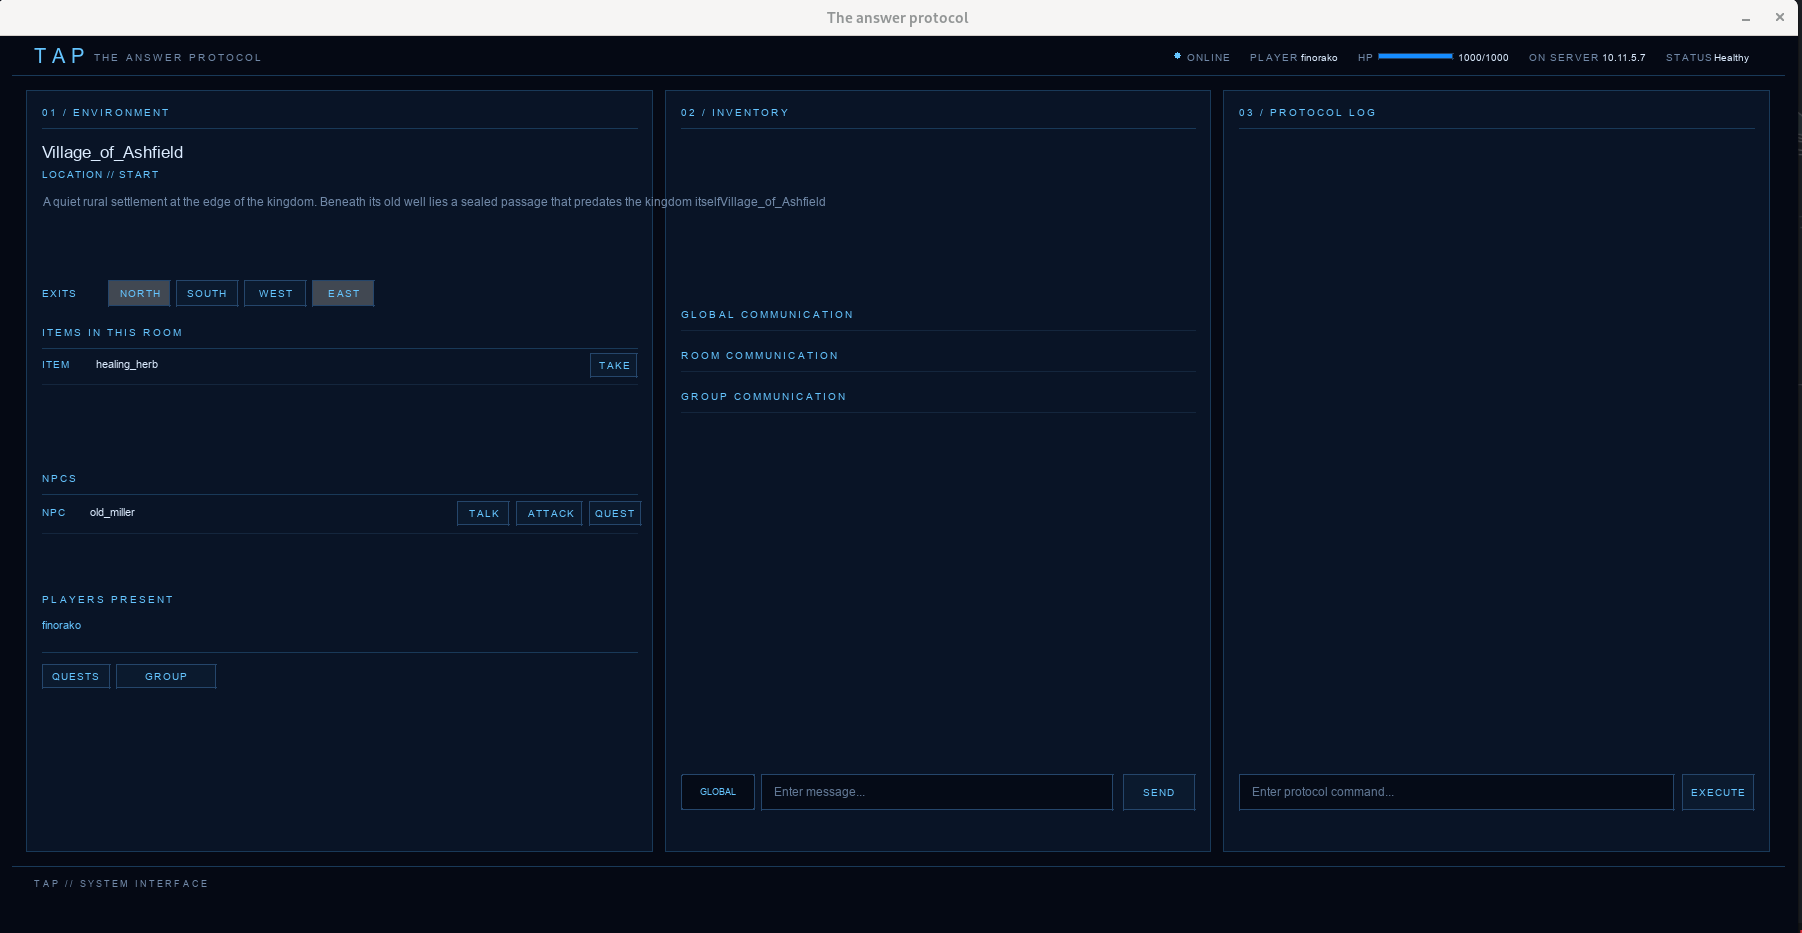
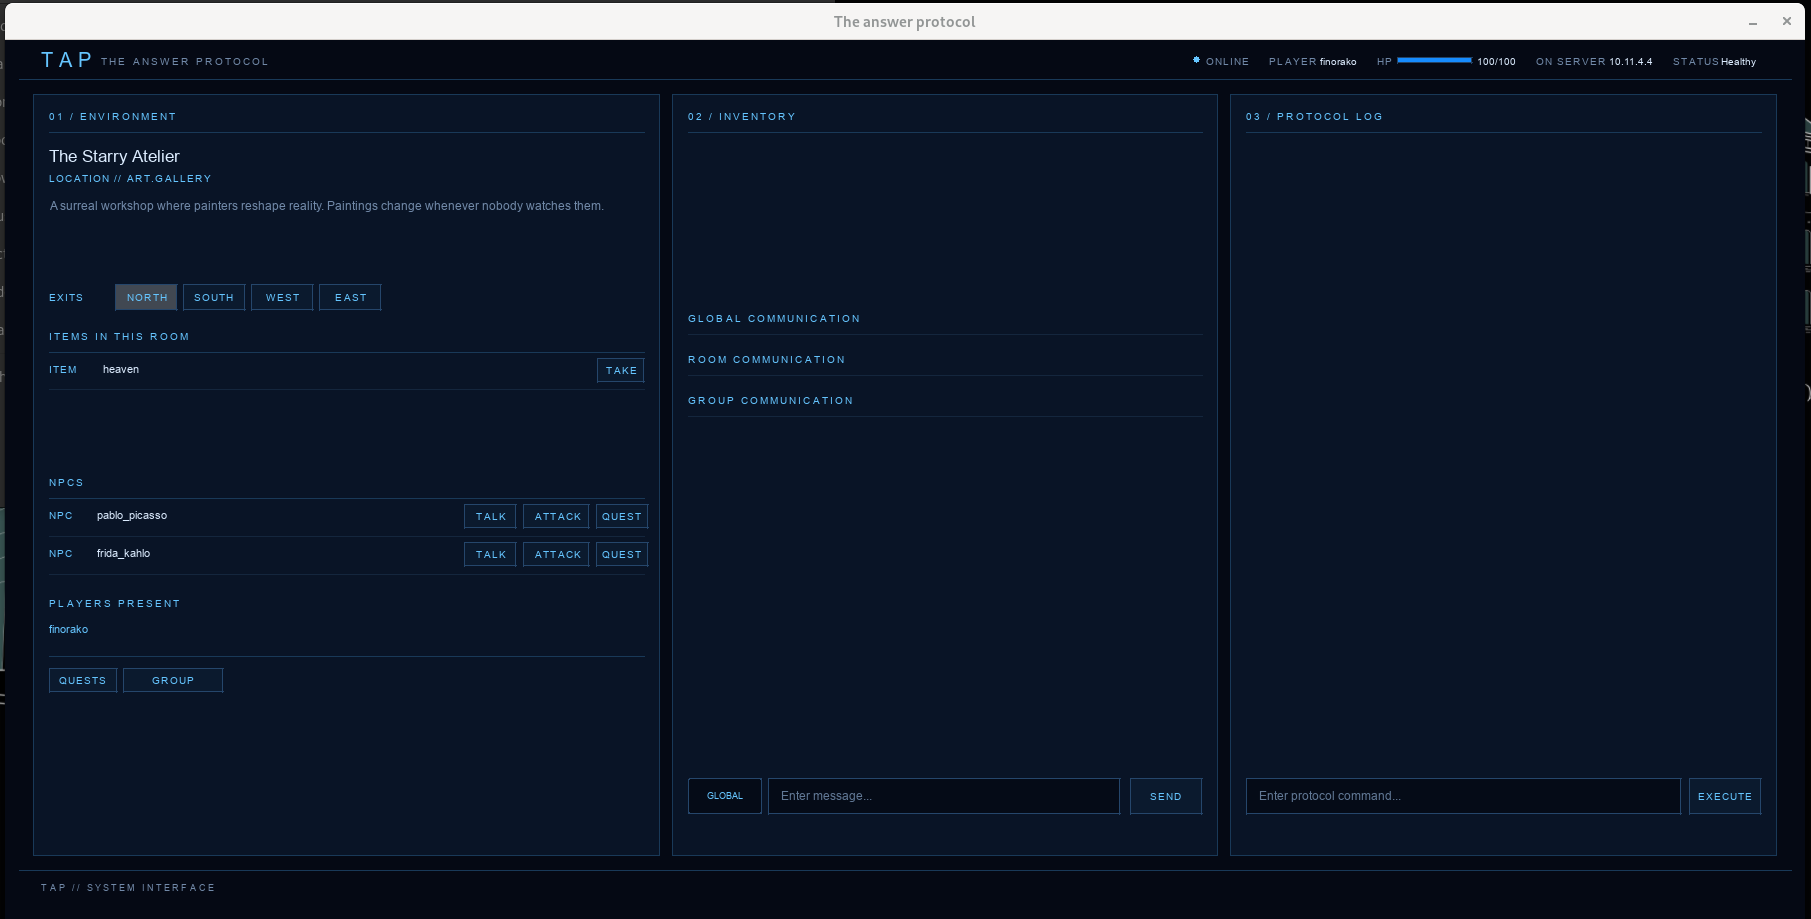
feat: finished README, might add other thing later on if have a better idea

diff --git a/server/execution/cmd_attack.c b/server/execution/cmd_attack.c
@@ -17,7 +17,7 @@
 static int	consequence(t_player *player, int client_fd, t_signal *result,
 	t_world *g_world)
 {
-	char name[MAX_NAME_LEN];
+	char	name[MAX_NAME_LEN];
 
 	if (player->hp <= player->max_hp / 2)
 		strcpy(player->status_hp, "unhealthy");

diff --git a/README.md b/README.md
@@ -10,24 +10,53 @@ _This project has been created as part of the 42 curriculum by irraheri, mrazaka
   - [Instructions](#instructions)
     - [Build and running the program](#build-and-running-the-program)
     - [Interacting with the program](#interacting-with-the-program)
+      - [GUI](#gui)
+      - [CLI](#cli)
+  - [Architectures](#architectures)
+    - [Dispatcher/Router vs Inline handling](#dispatcherrouter-vs-inline-handling)
+    - [Concurrency model](#concurrency-model)
+  - [Combat System](#combat-system)
+  - [Quest System](#quest-system)
+  - [Server logging](#server-logging)
+    - [Log format](#log-format)
+    - [Abuse pattern](#abuse-pattern)
+  - [Building and Running](#building-and-running)
+  - [Protocol Implementation](#protocol-implementation)
+  - [Testing](#testing)
+  - [Group Contributions](#group-contributions)
+    - [Server](#server)
+    - [GUI](#gui-1)
+    - [World](#world)
+  - [What need to be improvised](#what-need-to-be-improvised)
+    - [Performance](#performance)
+    - [Data Management](#data-management)
 <!--toc:end-->
 
 ## Description
 
-Test.
+A text-based multiplayer game (often called a MUD or Multi-User Dungeon) is a
+persistent online world described entirely through written text rather than
+graphics, where players interact via typed commands or menu choices. These games
+feature shared persistent servers where thousands of players coexist, creating a
+live economy, player-run politics, and real-time social interactions that
+continue to evolve even when individual players are offline.
 
 ## Project Management
 
+This project has been created by 3 people: `irraheri`, `mrazakam` and `finorako`
+
 | Login    | TASK                            |
 | -------- | ------------------------------- |
-| irahery  | the main concept of the server  |
+| irraheri | the main concept of the server  |
 | mrazakam | Rendering the gui of the client |
 | finorako | the creation of the world       |
 
-
 ## Resources
 
-A
+- [SDL3](https://wiki.libsdl.org/SDL3/FrontPage)
+- [Zeal](https://zealdocs.org)
+- man command
+- [Server Architectures](https://berb.github.io/diploma-thesis/original/042_serverarch.html)
 
 ## Instructions
 
@@ -41,7 +70,177 @@ A
 
 ### Interacting with the program
 
-You have two options to run the program (with the gui, or cli) but overall
-its all the same but for this lets say you use the GUI.
+You have two options to run the program (with the gui, or cli).
 
+#### GUI
+
+Here you need to enter the name you want to use in the world.
 ![Login](./images/server1.png)
+
+Now that you are logged in, It should be fairly intuitive how to use it.
+![Landing page](./images/server2.png)
+
+#### CLI
+
+First of all run `make run-client-cli`
+
+Now that you lanched it, you have the set of command bellow:
+
+| CMD                     | ACTION                                              |
+| ----------------------- | --------------------------------------------------- |
+| CONNECT username        | Connect the client to the server                    |
+| QUIT                    | Disconnect from the server                          |
+| TALK npc                | talk to the npc                                     |
+| CHAT ROOM message       | chat in the current room you are in                 |
+| CHAT GLOBAL message     | send message to all user                            |
+| CHAT GROUP message      | send message to user in the same group as player    |
+| GROUP CREATE group_name | creating a group                                    |
+| GROUP JOIN group_name   | join group_name                                     |
+| GROUP LEAVE group_name  | leave the group_name                                |
+| QUEST npc               | request a quest from the npc                        |
+| QUESTS                  | view current/done quests                            |
+| COMPLETE_QUEST quest_id | request an appeal to verify if quest_id is finished |
+| ATTACK npc              | attacking the npc                                   |
+| MOVE direction          | move to the desired direction                       |
+
+## Architectures
+
+### Dispatcher/Router vs Inline handling
+
+We think that for our implementation we should go with `dispatcher` as
+the event is strictly dependent to our code and is easier to use in our
+implementation. Where `inline handling` is dependant to an event.
+
+### Concurrency model
+
+There was a lot more way to do this project, but for ours we went with
+multithreading as we already knew a little about it with the project
+`codexion`.
+
+For the cli client, we used `atomicint` as it don't need to be protected by mutex.
+
+In the server, we didn't used `atomicint` but used a simple `mutex` to protect shared data.
+
+## Combat System
+
+As we said before, there are so many ways to improve this project,
+and one of them is making the npc think. For now, our implementation
+use an arbitrary value of attack and damage caused by npc and player.
+
+The moment the player's life reach 0 they spawn in the first zone as it is
+considered safe.
+
+## Quest System
+
+For the quest system, we for now only implemented `take` and `kill` but
+later on, when we have time, we plan on adding new quest type.
+
+As soon as a you finished the quest and request a `complete quest`
+if the quest where to have a reward for example it will be instantly be placed
+in the room where you request a `complete quest`.
+
+## Server logging
+
+### Log format
+
+For the logging format we went with to log the date.
+
+```
+void log_date(void)
+{
+ time_t     timestamp;
+ char     *date;
+
+ timestamp = time(NULL);
+ date = ctime(&timestamp);
+ date[strlen(date) - 1] = '\0';
+ ft_printf("\r[%s] - ", date);
+}
+```
+
+Bellow is an example of a full output:
+
+```
+[Tue Oct 27 10:05:07 2026] - Server IP address: 10.11.4.4
+[Tue Oct 27 10:05:07 2026] - Server is initialized
+[Tue Oct 27 10:05:16 2026] - Player 1 is CONNECTED (10.11.4.4)
+[Tue Oct 27 10:05:17 2026] - RECEIVED 'LOOK' FROM PLAYER 1
+[Tue Oct 27 10:05:19 2026] - RECEIVED 'CONNECT finorako' FROM PLAYER 1
+[Tue Oct 27 10:05:19 2026] - Client fd 4 has changed his name UNAUTHENTICATED
+into finorako
+```
+
+### Abuse pattern
+
+For now, there is no abuse pattern other than users can't create more than
+`MAX_ID_LEN` of group and there can't also be more than `MAX_PLAYER` player.
+
+## Building and Running
+
+To build the program, you can do:
+
+- `make` which will do all the appropriate thing to build the program for you
+  without you doing a thing.
+
+- If the above doesn't work you should probably want to install the SDL3 with
+
+- - `sudo apt install libsdl3-dev` if on debian
+- - `sudo pacman -S sdl3`
+
+After that, you can re-run make again and it should fix the problem.
+
+Now you can:
+
+- `make run-server` to lunch the server.
+- `make run-client-cli` to lunch the client based cli.
+- `make run-client-gui` to lunch the client based gui.
+
+## Protocol Implementation
+
+As we where tasked to implement a simple TCP server, we implemented a three-way
+handshake meaning that user can't do anything unless they where connected, and
+even before doing action, we verified if the message is according to a correct
+command or not before proceeding.
+
+## Testing
+
+To test our project, we went with the mentality of breaking it such as:
+
+- Using more npc than world can take.
+- Creating players more than the server can take.
+
+This was all tested in a separate branch called `debug` it contain all
+possible bug we could think of.
+
+## Group Contributions
+
+### Server
+
+The server was done by `irraheri` and the command to interact with the server
+was also designed by him.
+
+### GUI
+
+The client GUI was all done by `mrazakam`
+
+### World
+
+The world design was designed by `finorako`
+
+## What need to be improvised
+
+This project is already rich enough as is, but we think that it can be
+improvised a lot better by adding or improving the points listed bellow:
+
+### Performance
+
+**Read-line**: In the parsing part, we first read the whole file to get it's size
+then reread it again to store it's content, but we think that changing it into
+a more complete function such as the builtin `readline` we can improve the performance
+of our implementation better.
+
+### Data Management
+
+**Persistent**: Our current project, doesn't store the game progress, but as we
+played it we think that implementing a persistent data is much more interesting
+for this project.
